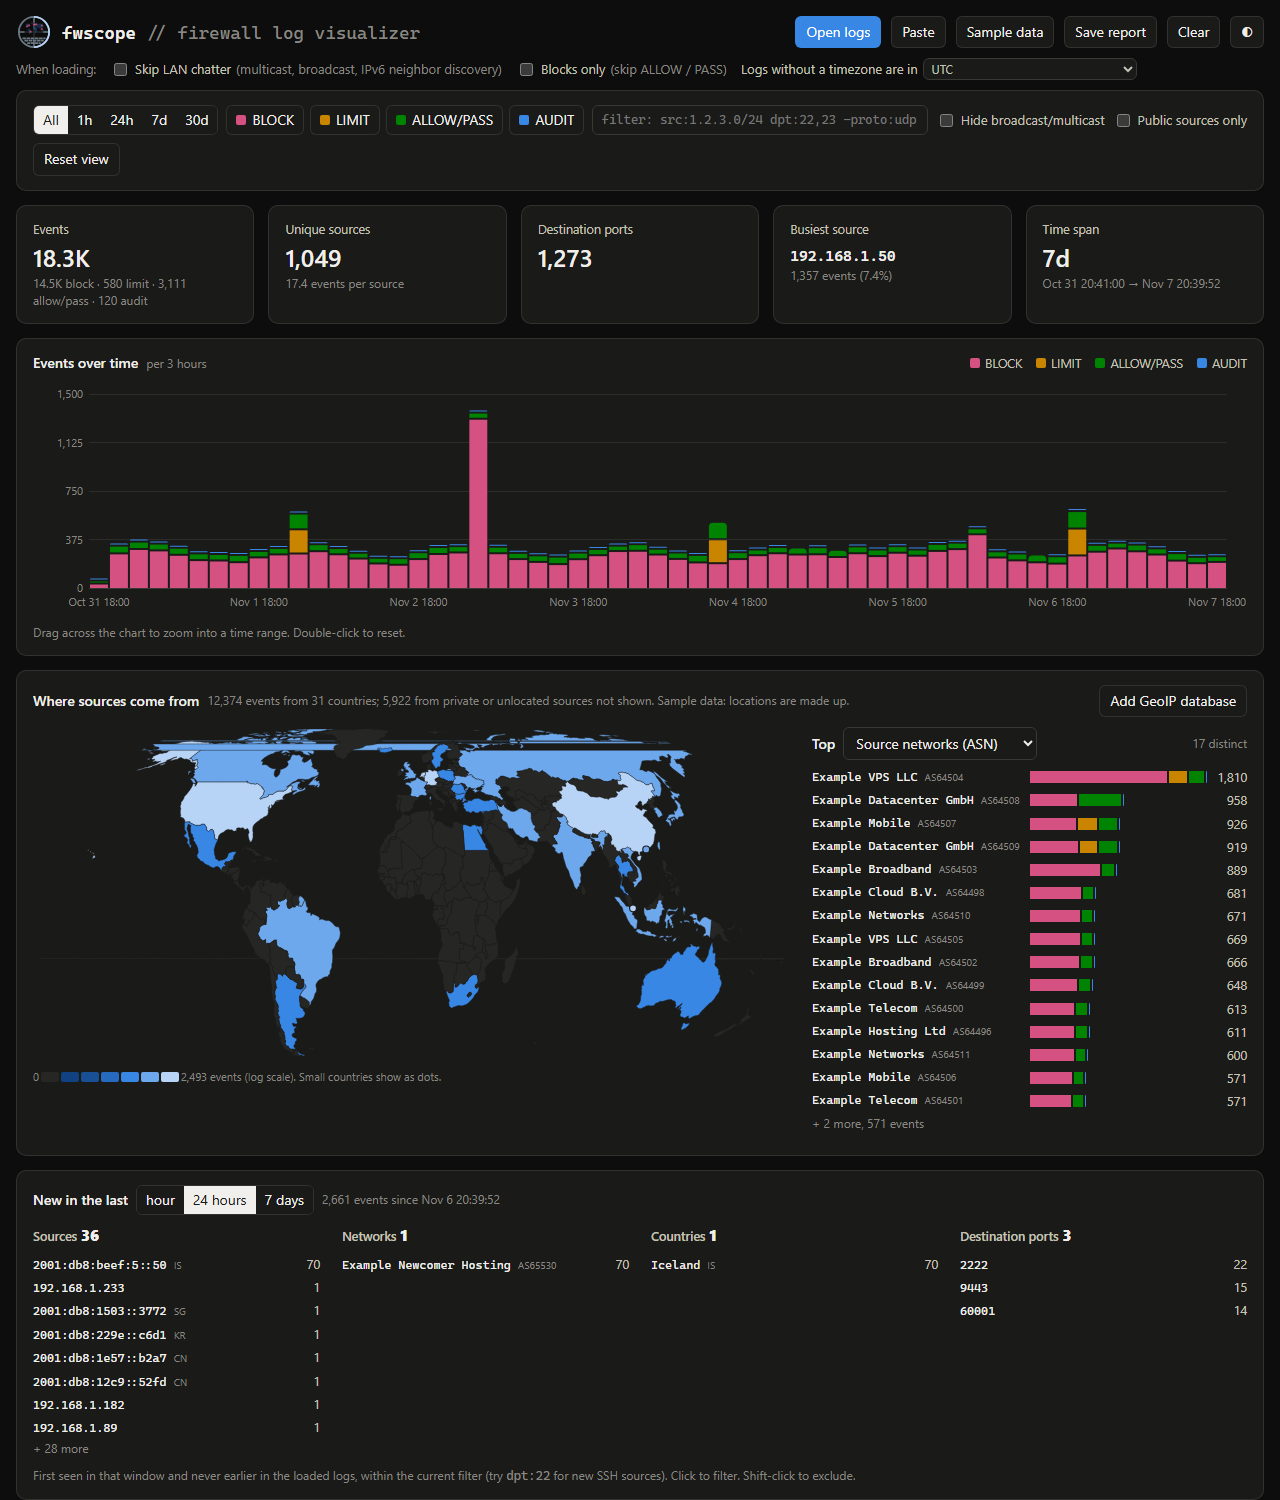
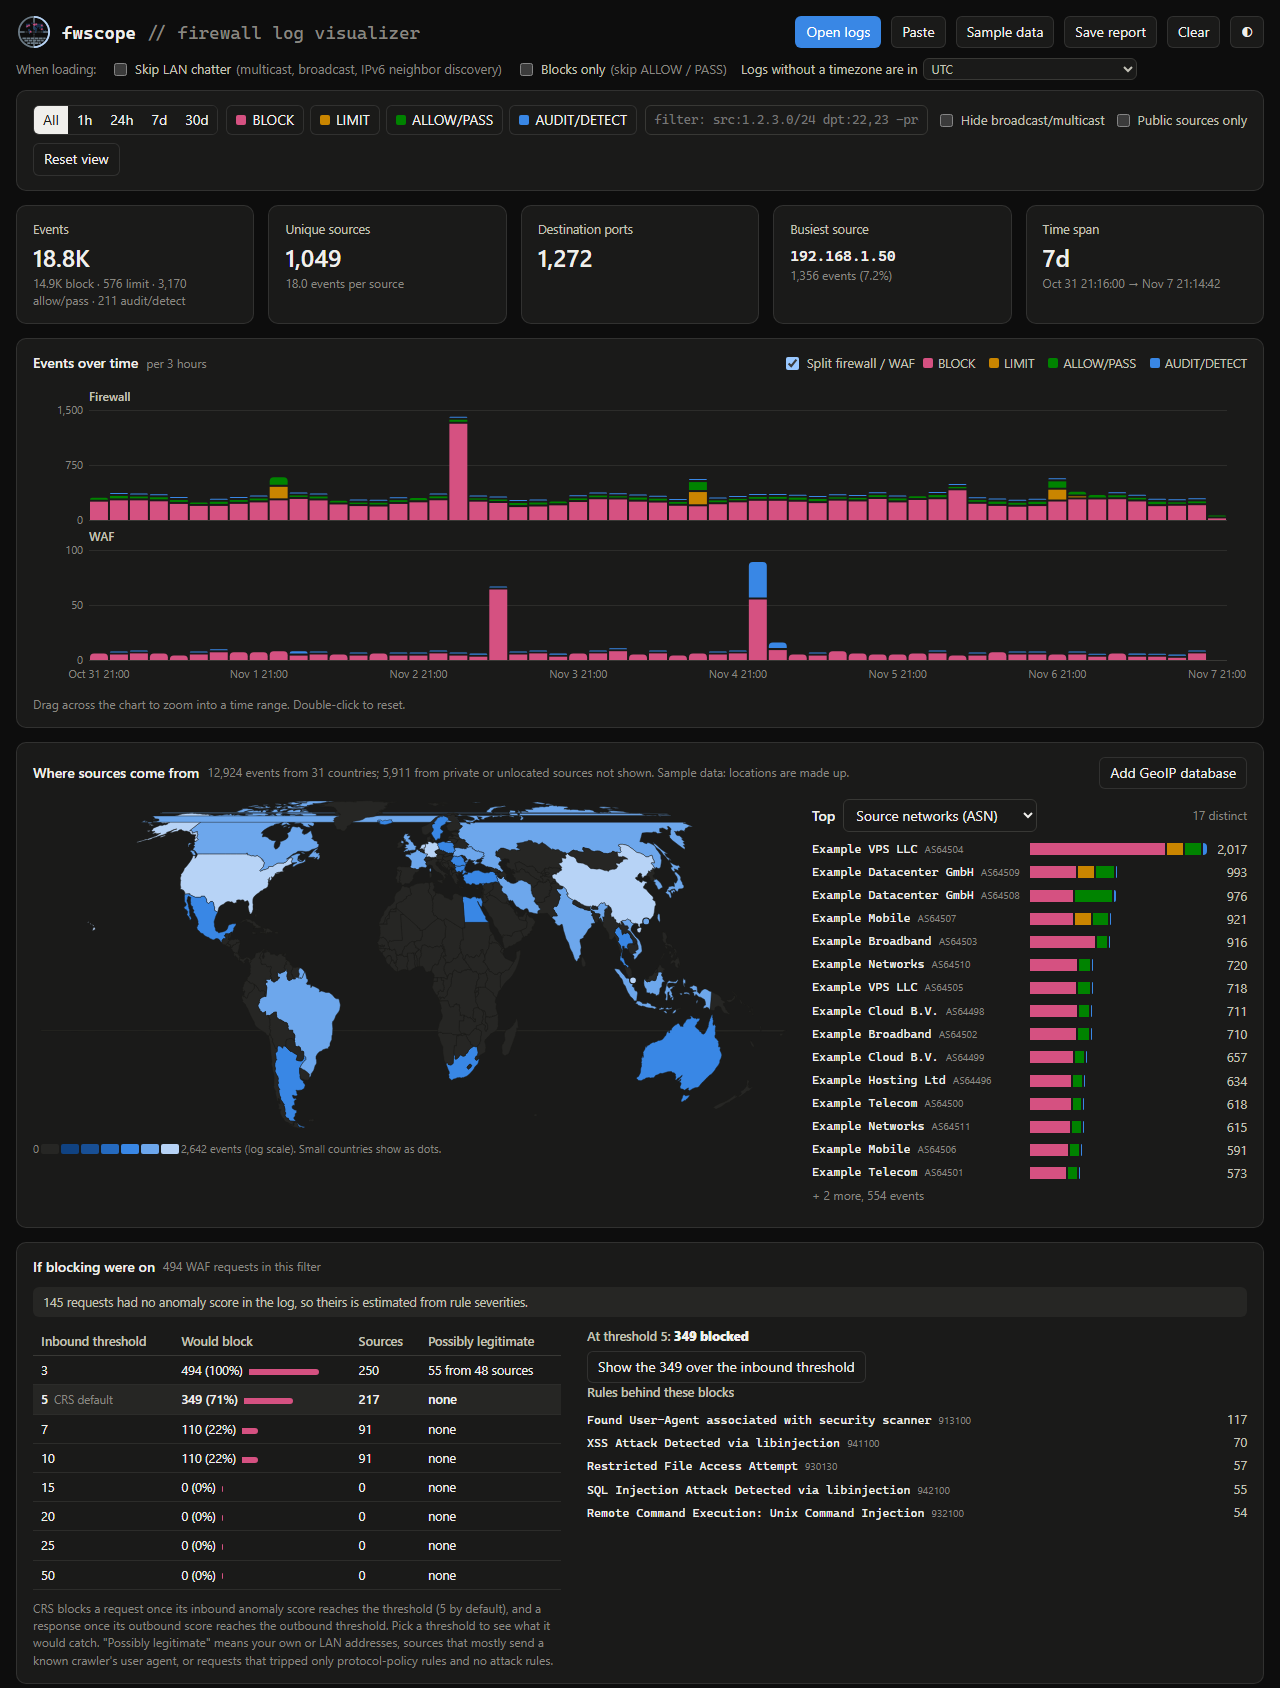
Update README screenshot with WAF panels and the blocking what-if card

diff --git a/README.md b/README.md
@@ -4,7 +4,7 @@
 
 A single-file, offline visualizer for firewall and WAF logs: UFW / iptables, OPNsense / pfSense, Windows Firewall, and ModSecurity / Coraza. Open `index.html` in a browser, drop your logs on it, and you get a dashboard. Everything is parsed in the browser tab. Nothing gets uploaded, and there are no dependencies or CDN calls, so it also works on an air-gapped box.
 
-![fwscope dashboard showing a week of sample firewall logs: summary tiles, events over time, a world map of sources with the top networks, and new sources, networks, countries and ports in the last 24 hours](assets/screenshot.png)
+![fwscope dashboard on a week of sample firewall and WAF logs: summary tiles, events over time split into firewall and WAF panels, a world map of sources with the top networks, and what blocking mode would do at each anomaly threshold](assets/screenshot.png)
 
 *The built-in sample data (made-up documentation addresses). Open `index.html?demo` to see it live.*
 
